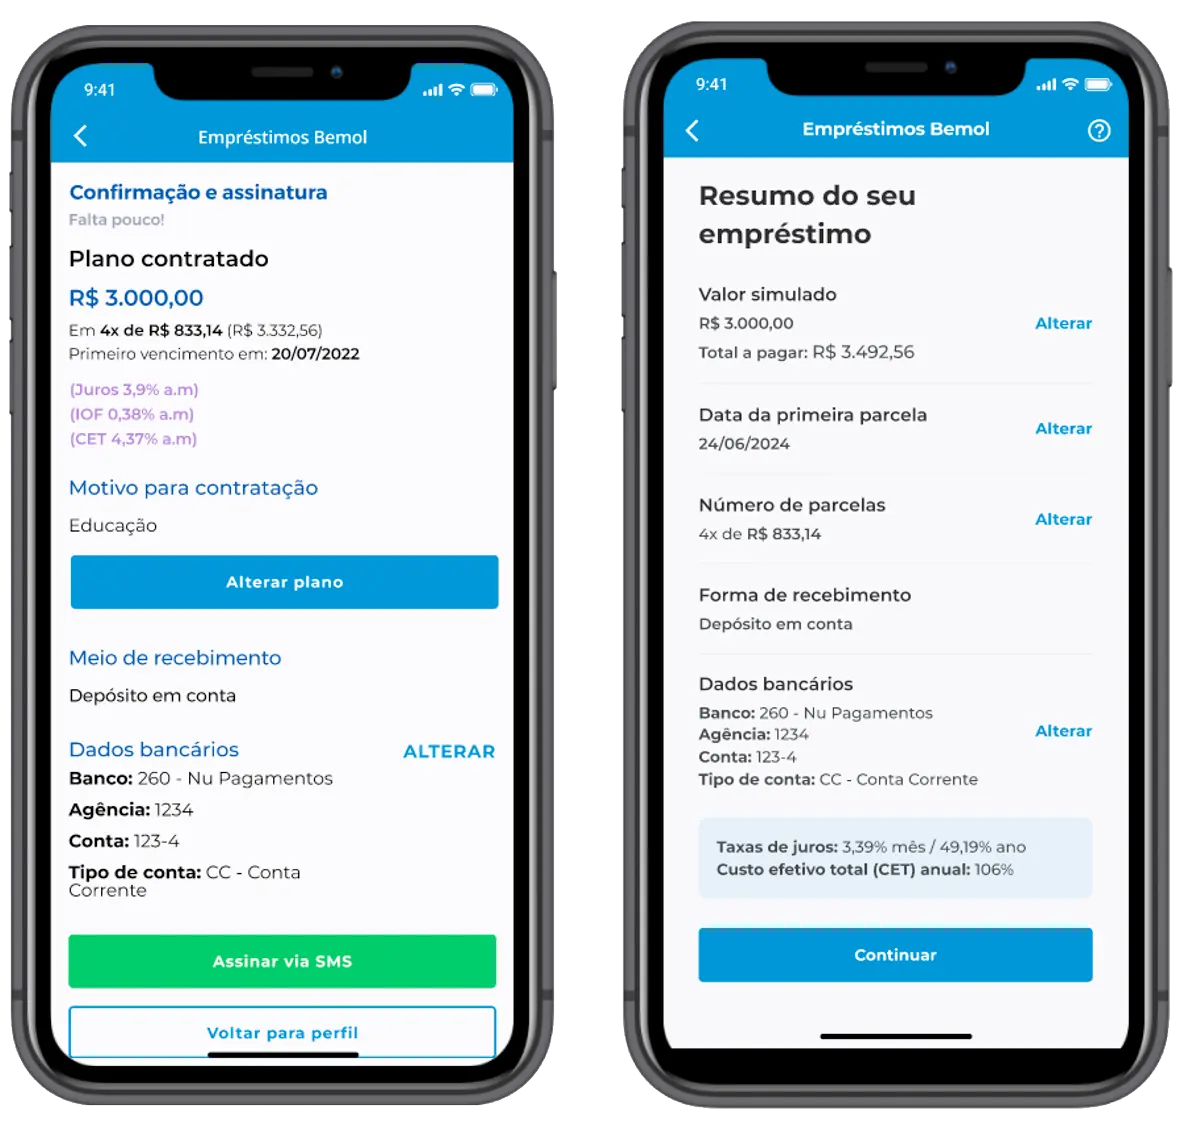
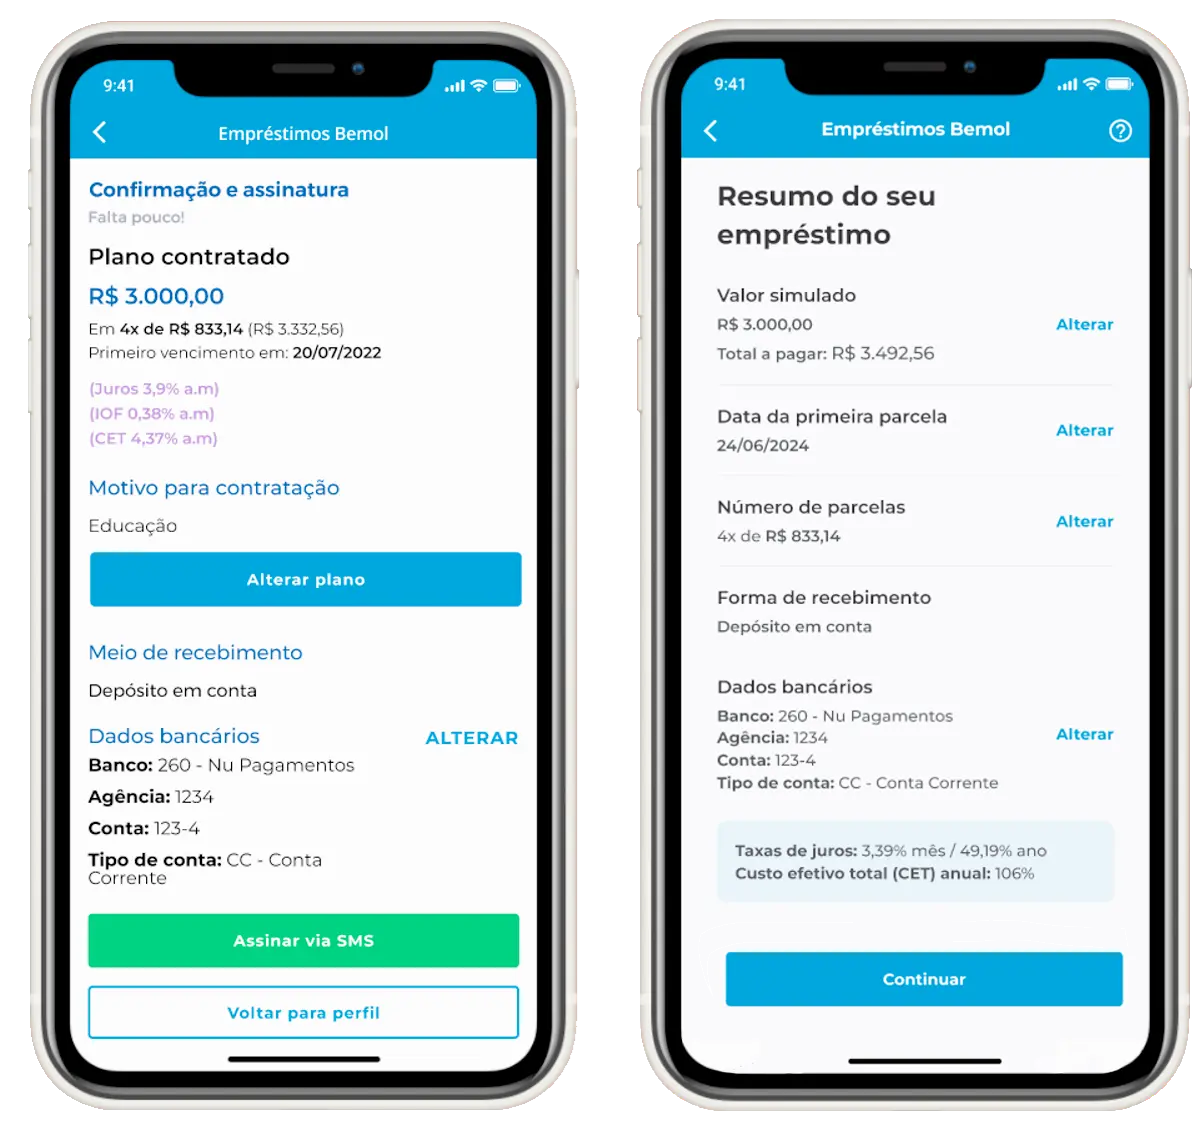
fix: text align

diff --git a/src/pages/case-page/components/structure/ContentSection/ContentSection.tsx b/src/pages/case-page/components/structure/ContentSection/ContentSection.tsx
@@ -81,11 +81,23 @@ function ContentSection({ title, subtitle, children, customCss }: ContentSection
   const defaultCustomCss = {
     marginTop: "0",
     marginBottom: "0",
+    titlePosition: "left" as const,
     ...customCss
   };
 
+  const getTitleAlignment = () => {
+    switch (defaultCustomCss.titlePosition) {
+      case 'center':
+        return 'center';
+      case 'right':
+        return 'right';
+      default:
+        return 'left';
+    }
+  };
+
   return (
-    <div 
+    <div
       className={styles.contentContainer}
       style={{
         marginTop: normalizeMeasures(defaultCustomCss.marginTop),
@@ -94,7 +106,10 @@ function ContentSection({ title, subtitle, children, customCss }: ContentSection
     >
       <div>
         {(title || subtitle) && (
-          <div className={styles.titleWrapper}>
+          <div
+            className={styles.titleWrapper}
+            style={{ textAlign: getTitleAlignment() }}
+          >
             {title && <h3 className={styles.contentTitle}>{title}</h3>}
             {subtitle && <p className={styles.contentSubtitle}>{subtitle}</p>}
           </div>

diff --git a/src/pages/case-page/appBemol/AppBemol.tsx b/src/pages/case-page/appBemol/AppBemol.tsx
@@ -198,7 +198,10 @@ function AppBemol() {
                 </ContentBlock>
 
                 <ContentBlock customCss={{ marginTop: "80", marginBottom: "80" }}>
-                    <ContentSection title="ANTES X DEPOIS">
+                    <ContentSection
+                        title="ANTES X DEPOIS"
+                        customCss={{ titlePosition: 'center' }}
+                    >
                         <Carrossel
                             slides={carrosselData}
                             title="Tela inicial do fluxo de contratação"

diff --git a/src/pages/case-page/safra/Safra.tsx b/src/pages/case-page/safra/Safra.tsx
@@ -6,7 +6,7 @@ import PageHeader from "../components/structure/PageHeader/PageHeader";
 import PageWrapper from "../components/structure/PageWrapper/PageWrapper";
 import Summary from "../components/structure/Summary/Summary";
 import { safraData } from "./data";
-import safraOpenImg from "../../../assets/safra/safraopen.png";
+import safraOpenImg from "../../../assets/safra/safraopen.webp";
 import styles from "./safra.module.scss";
 
 function Safra() {

diff --git a/src/pages/case-page/safra/data.ts b/src/pages/case-page/safra/data.ts
@@ -12,7 +12,7 @@ export const safraData: CaseInterface = {
   tipoDeCase: "premiado",
   bgColor: "#386681",
   imgHover: case4img,
-  underConstruction: true,
+  underConstruction: false,
   underConstructionImg: case4imgOff,
   miniImg: safraMiniImg,
   CasePreview: {

diff --git a/src/interfaces/content.ts b/src/interfaces/content.ts
@@ -29,6 +29,8 @@ export interface ContentSectionProps {
   customCss?: {
     marginTop?: string;
     marginBottom?: string;
+    /** Posição do título: 'left' (padrão), 'center' ou 'right' */
+    titlePosition?: 'left' | 'center' | 'right';
   };
 }
 
